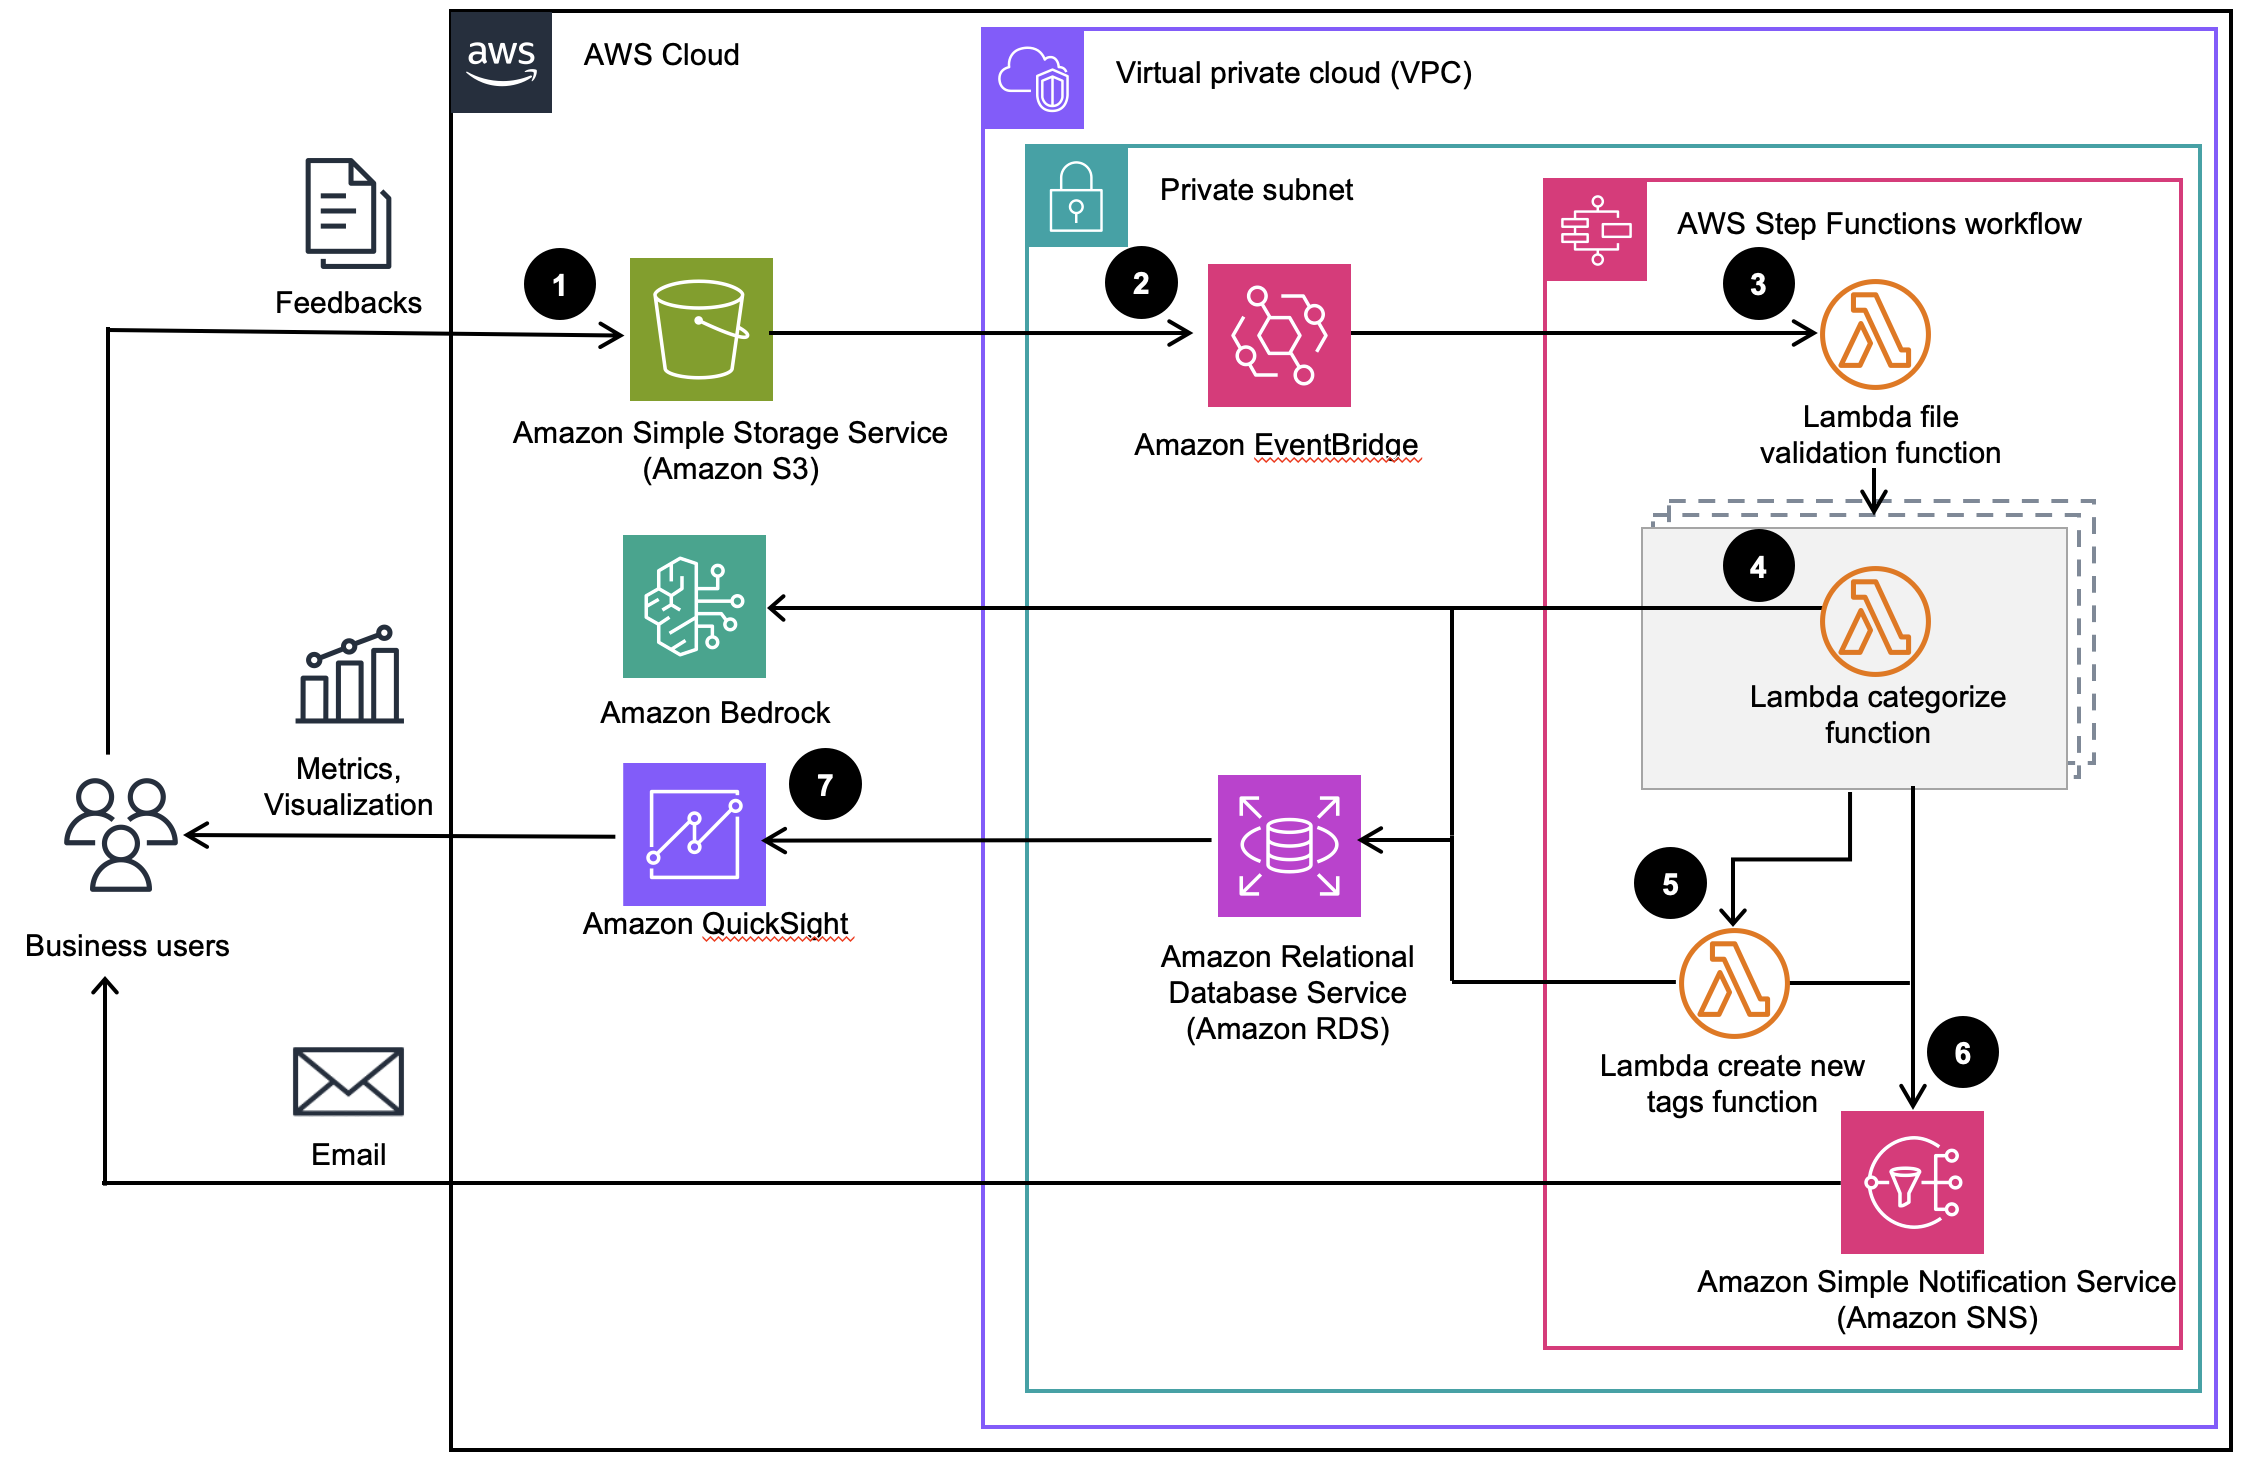
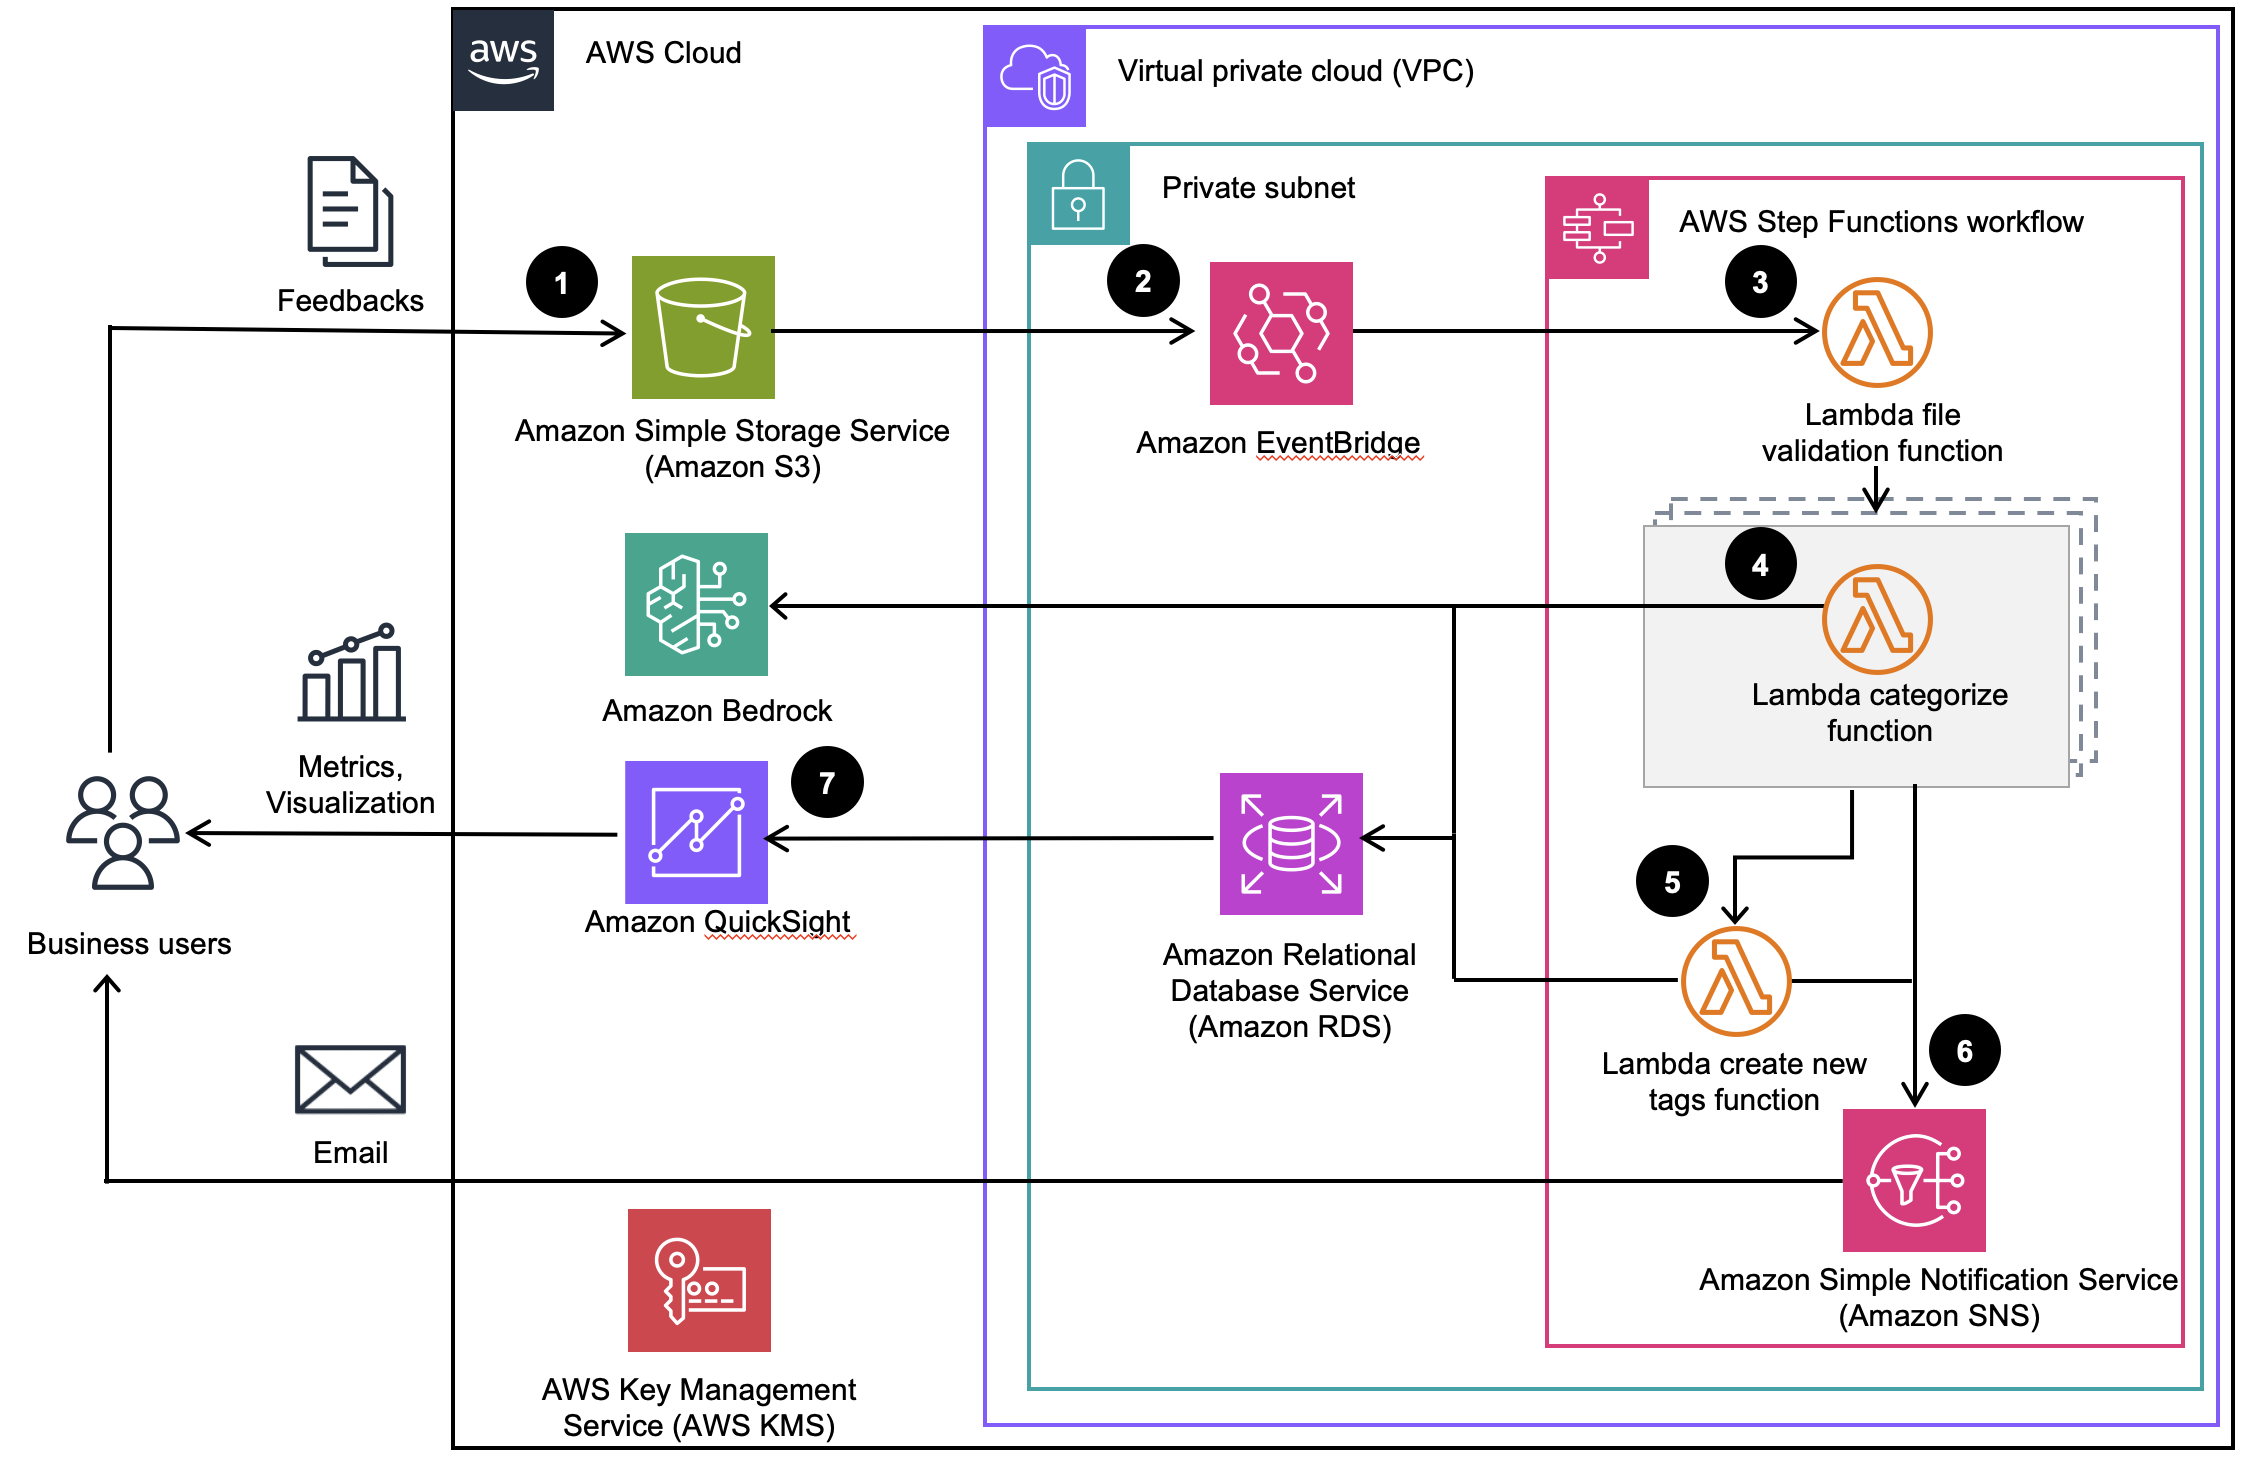
initial

diff --git a/README.md b/README.md
@@ -59,7 +59,7 @@ The data flow is as below:
 1. Business users upload csv file of user feedbacks to Amazon Simple Storage Service (Amazon S3) bucket. The default CSV file format is `product_name,store,id,stars,title,feedback,date`. You can find more from the [sample CSV file](docs/sample_data.csv). 
 1. The Amazon S3 data event of the uploaded files will trigger the step function through Amazon EventBridge. You can find more in the [Workflow Orchestration session](#workflow-orchestration) below.
 1. The AWS Lambda file validation function in the AWS Step Function will extract the feedback from csv, and validate the file. 
-1. AWS Step Function uses Map state to call Lambda categorize function for each feedback in the csv, in parallel. The Lambda categorize function will invoke the Amazon Bedrock LLM to categorize the feedback and save the result to Amazon Relational Database Service (Amazon RDS) database. Please find more in the [LLM and Prompt Engineering session below](#llm-and-prompt-engineering). The RDS database has table `customer_feedback` with columns `id,product_name,store,ref_id,stars,title,feedback,label_llm,create_date,last_updated_time,label_post_processing,label_correction,execution_id`. 
+1. AWS Step Function uses Map state to call Lambda categorize function for each feedback in the csv, in parallel. The Lambda categorize function will invoke the Amazon Bedrock LLM to categorize the feedback and save the result to Amazon Relational Database Service (Amazon RDS) database. Amazon RDS is encrypted using key from AWS Key Management Service (AWS KMS). Please find more in the [LLM and Prompt Engineering session below](#llm-and-prompt-engineering). The RDS database has table `customer_feedback` with columns `id,product_name,store,ref_id,stars,title,feedback,label_llm,create_date,last_updated_time,label_post_processing,label_correction,execution_id`. 
 1. If there is no right category for certain amount of feedbacks, the Lambda create new category function will create new category.
 1. At the end, AWS Step Function will publish the running result to Amazon Simple Notification Service (Amazon SNS) topic.  
 1. Configure the Amazon Quicksight to visualize the results in Amazon RDS database. Please find more in the [Visualization session](#visualization) below.
